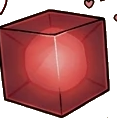
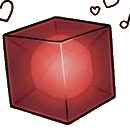
Recorte por dentro del marco + inundar solo crema: cubos solidos, expresiones intactas, sin marco
Claude-Session: https://claude.ai/code/session_01E3vXZPJtAEyM9MxmSxV3Lz

diff --git a/tools/recorta_emociones.py b/tools/recorta_emociones.py
@@ -78,25 +78,74 @@ def _fuente(px):
     return ImageFont.load_default()
 
 
-def quita_fondo(panel):
-    """Inunda el fondo (crema/piso) desde el borde y lo pasa a transparente.
+def _anillo(w, h, fx):
+    """Puntos a lo largo de un rectángulo metido 'fx' hacia dentro."""
+    x0, y0 = int(w * fx), int(h * fx)
+    x1, y1 = w - 1 - x0, h - 1 - y0
+    pts = []
+    for x in range(x0, x1 + 1, max(1, w // 26)):
+        pts += [(x, y0), (x, y1)]
+    for y in range(y0, y1 + 1, max(1, h // 26)):
+        pts += [(x0, y), (x1, y)]
+    return pts
 
-    Devuelve un RGBA recortado pegado a lo que queda opaco. Los blancos
-    ENCERRADOS por un contorno no se tocan (el relleno no los alcanza).
+
+def dentro_del_marco(panel):
+    """Recorta el panel a JUSTO POR DENTRO de su marco negro.
+
+    Los garabatos de la expresión viven dentro del marco, así que recortar por
+    su borde interior los conserva enteros y deja fuera el marco. No toca nada
+    oscuro: solo mide dónde está el marco (línea negra de ancho casi completo).
+    """
+    g = panel.convert('L')
+    w, h = panel.size
+    m = g.point(lambda p: 255 if p < UMBRAL_OSCURO else 0)
+    rows = _perfil_filas(m, h)      # 0..255 = % de negro por fila
+    cols = _perfil_columnas(m, w)
+
+    def borde(prof, n):
+        # desde el principio: salta crema, cruza el marco, para en lo de dentro
+        i = 0
+        while i < n and prof[i] < 90:  i += 1   # crema exterior
+        while i < n and prof[i] >= 40: i += 1   # el trazo del marco
+        a = i
+        j = n - 1
+        while j >= 0 and prof[j] < 90:  j -= 1
+        while j >= 0 and prof[j] >= 40: j -= 1
+        b = j
+        return a, b
+
+    top, bot = borde(rows, h)
+    left, right = borde(cols, w)
+    if bot - top < h * 0.45 or right - left < w * 0.45:
+        return panel               # detección dudosa -> deja el panel completo
+    return panel.crop((max(0, left), max(0, top),
+                       min(w, right + 1), min(h, bot + 1)))
+
+
+def quita_fondo(panel):
+    """Borra el fondo del PANEL COMPLETO (crema + piso + marco) sin recortar la
+    expresión.
+
+    Recibe el panel entero, con su marco. Siembra el relleno en tres sitios:
+      · el borde y un anillo justo por DENTRO del marco -> se lleva el crema y el
+        piso, tanto el de fuera del marco como el de dentro (que el marco aísla);
+      · sobre el propio marco negro -> lo quita.
+    Los blancos ENCERRADOS por un contorno (globos de texto, brillo interno del
+    cubo) no se tocan: el relleno no llega a ellos. Devuelve un RGBA recortado
+    pegado a lo que queda, con lo que quede de la expresión INTACTO.
     """
     rgb = panel.convert('RGB')
     w, h = rgb.size
-    # semillas a lo largo de TODO el borde: el fondo casi siempre toca el marco
-    semillas = []
-    for x in range(0, w, max(1, w // 24)):
-        semillas += [(x, 0), (x, h - 1)]
-    for y in range(0, h, max(1, h // 24)):
-        semillas += [(0, y), (w - 1, y)]
-    for sx, sy in semillas:
-        r, g, b = rgb.getpixel((sx, sy))
-        # solo sembramos donde el borde es CLARO (fondo), nunca sobre un trazo
-        if (r + g + b) / 3 > 150:
-            ImageDraw.floodfill(rgb, (sx, sy), MARCA, thresh=FLOOD_THRESH)
+    # Solo se inunda el CREMA CLARO, desde el borde y varios anillos hacia
+    # dentro. Nunca se toca nada oscuro, así que el cubo (rojo oscuro) y sus
+    # contornos quedan INTACTOS. El panel ya viene recortado por dentro del
+    # marco, así que aquí solo queda crema/piso/sombra que quitar.
+    for fx in (0.0, 0.03, 0.06, 0.10):
+        for sx, sy in _anillo(w, h, fx):
+            r, g, b = rgb.getpixel((sx, sy))
+            if (r + g + b) / 3 > 150 and rgb.getpixel((sx, sy)) != MARCA:
+                ImageDraw.floodfill(rgb, (sx, sy), MARCA, thresh=FLOOD_THRESH)
     # alpha: transparente donde quedó la marca; opaco en el resto
     px = rgb.load()
     out = panel.convert('RGBA')
@@ -164,10 +213,12 @@ def main():
     for f, (ry0, ry1) in enumerate(filas):
         for c, (cx0, cx1) in enumerate(cols):
             nombre = FILAS[f][c]
-            iw = (cx1 - cx0) * INSET
-            ih = (ry1 - ry0) * INSET
-            panel = im.crop((int(cx0 + iw), int(ry0 + ih),
-                             int(cx1 - iw), int(ry1 - ih)))
+            # panel COMPLETO con margen: garantiza que el marco entra entero
+            ex = int((cx1 - cx0) * 0.04)
+            ey = int((ry1 - ry0) * 0.04)
+            panel = im.crop((max(0, cx0 - ex), max(0, ry0 - ey),
+                             min(W, cx1 + ex), min(H, ry1 + ey)))
+            panel = dentro_del_marco(panel)   # recorta por dentro del marco
             cara = quita_fondo(panel)
             cara.save(os.path.join(STATIC, 'emo-%s.png' % nombre))
             caras.append((nombre, cara))
